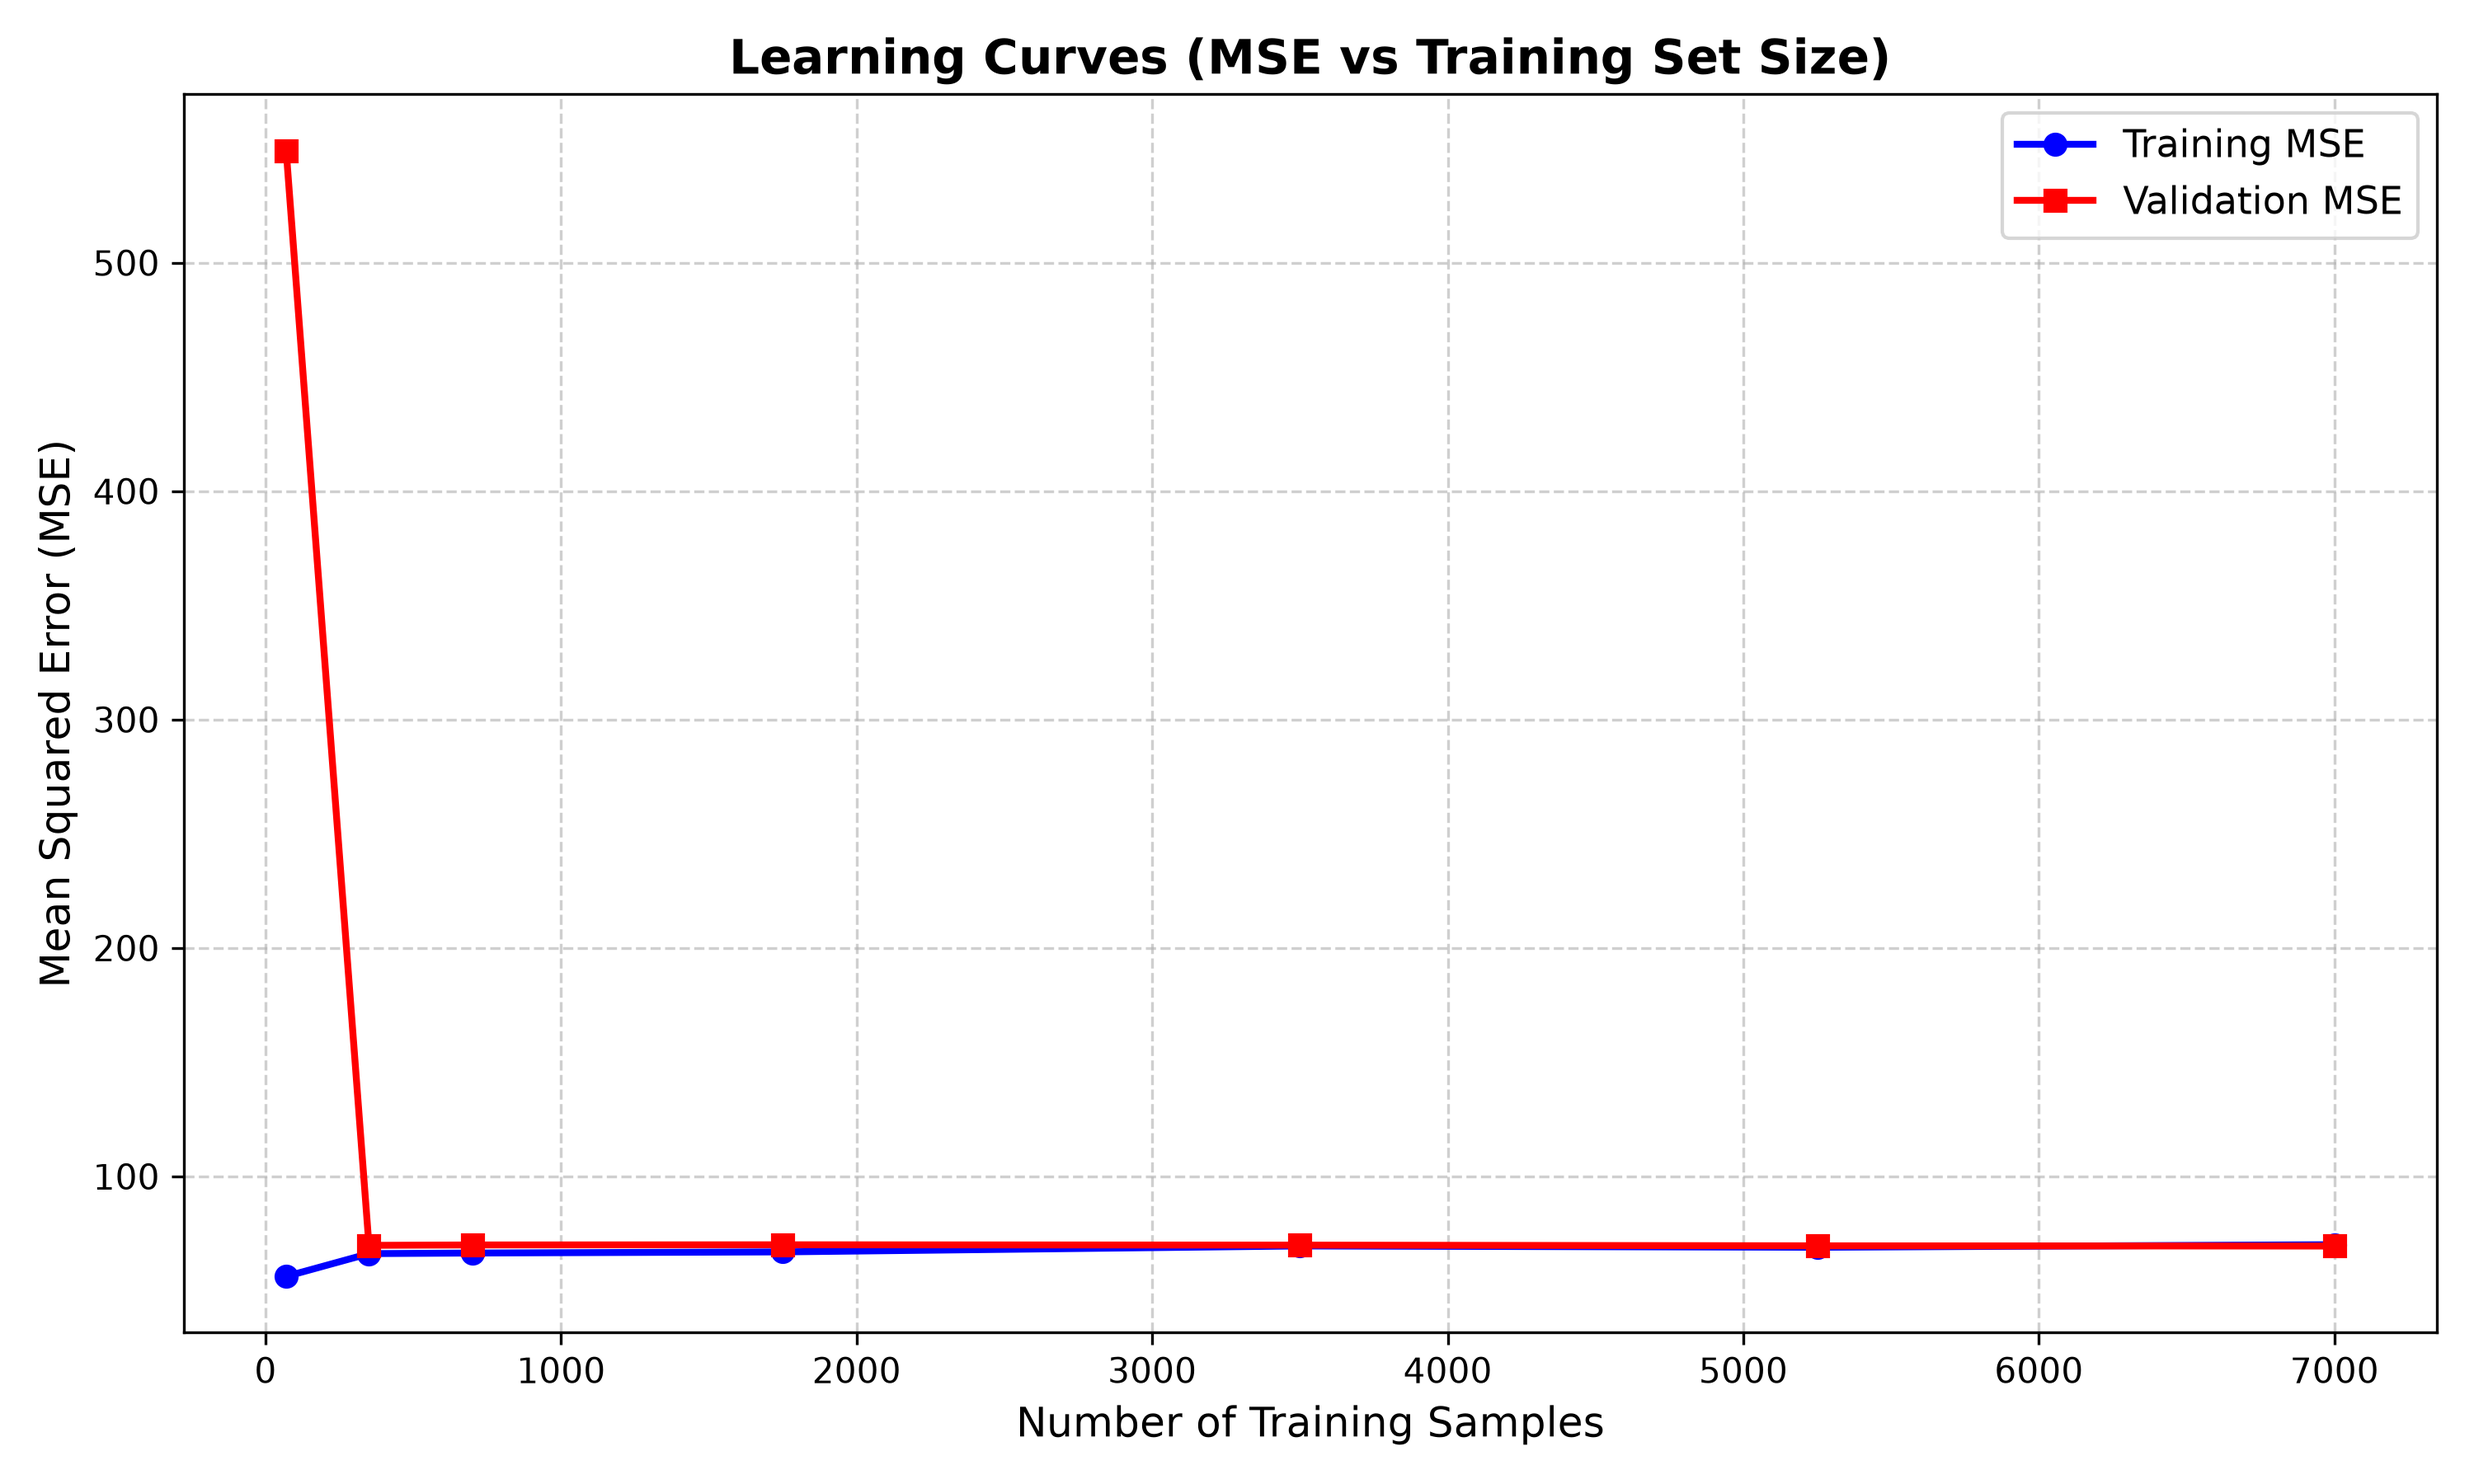
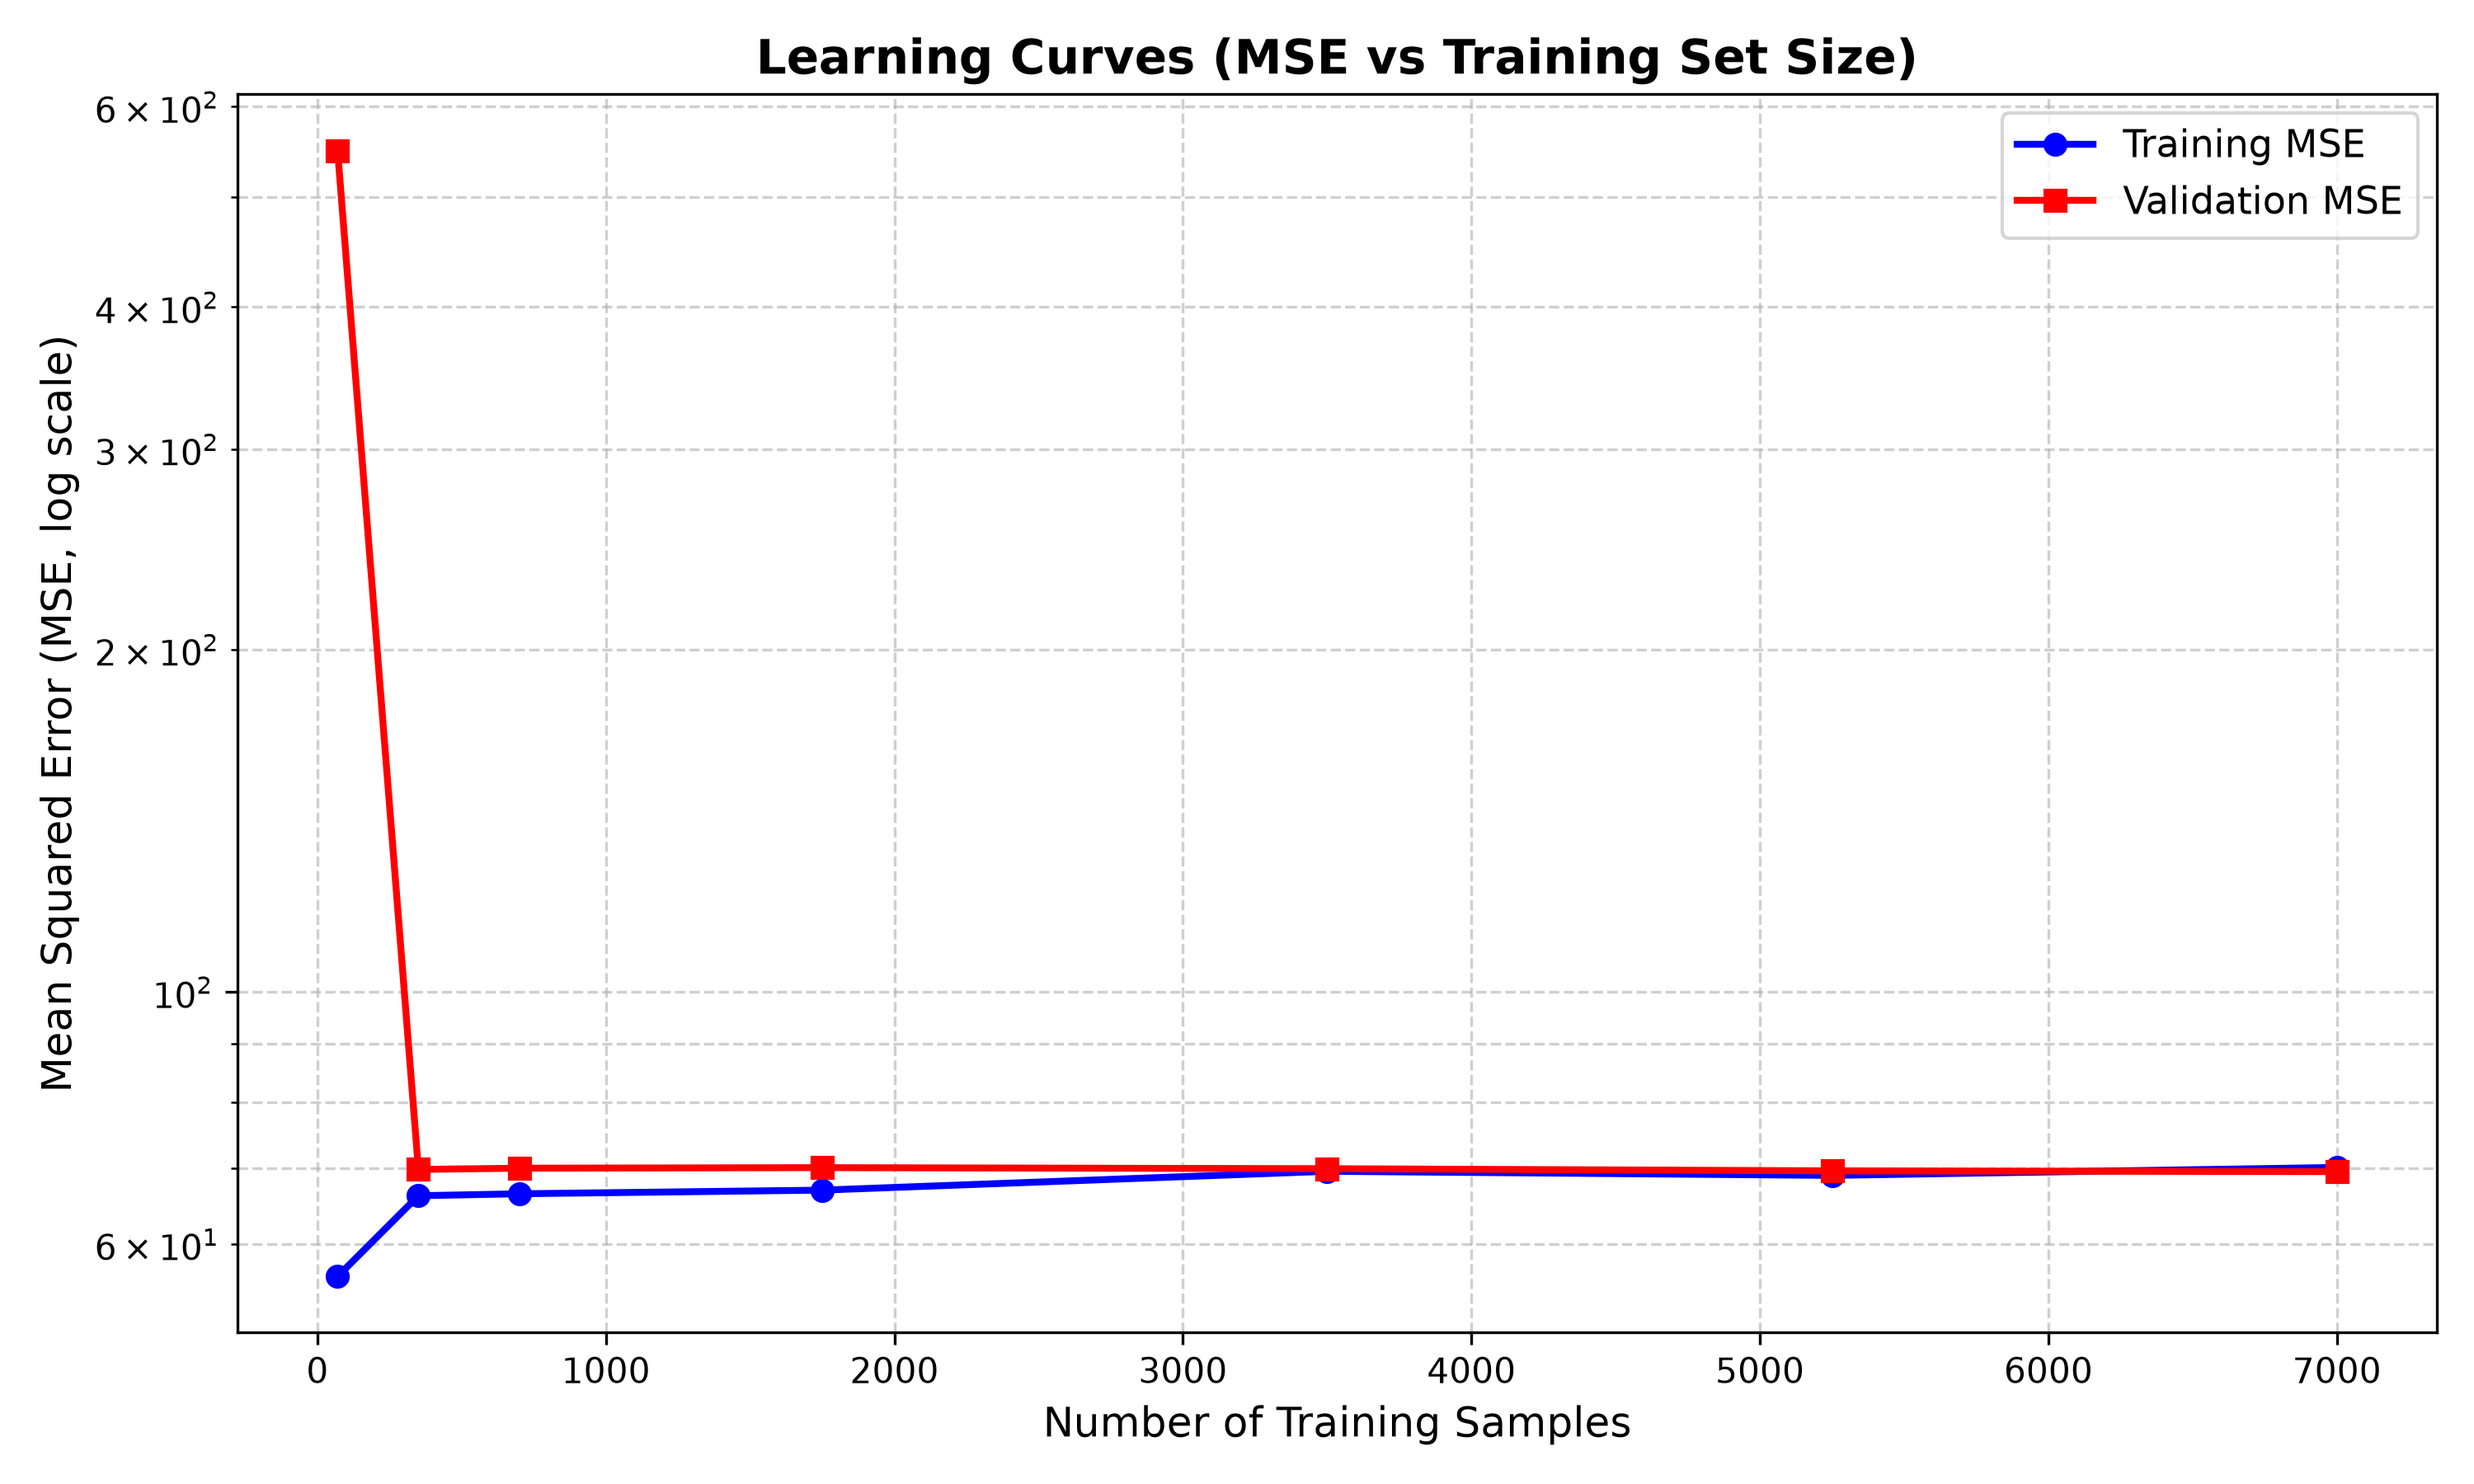
log scale learning curve and closed form formula

diff --git a/lab3/main.py b/lab3/main.py
@@ -1,19 +1,9 @@
-import os
-import sys
 import math
-
-SCRIPT_DIR=os.path.dirname(os.path.abspath(__file__))
-if SCRIPT_DIR not in sys.path:
-    sys.path.insert(0,SCRIPT_DIR)
 
 from src.preprocessing import train_val_test_split
 from src.regression import PolynomialRegression, RidgePolynomialRegression
 from src.metrics import mean_squared_error,root_mean_squared_error,mean_absolute_error,r2_score
 from src.visualization import (plot_fitted_curves,plot_degree_vs_error,plot_regularization_comparison,plot_residuals,plot_learning_curve)
-
-INPUT_DIR=os.path.join(SCRIPT_DIR,"input")
-OUTPUT_DIR=os.path.join(SCRIPT_DIR,"output")
-os.makedirs(OUTPUT_DIR,exist_ok=True)
 
 def load_data(filename):
     x = []
@@ -38,7 +28,7 @@ def print_separator(title):
 def main():
     print_separator("POLYNOMIAL REGRESSION & MODEL SELECTION")   
     #load dataset
-    data_path=os.path.join(INPUT_DIR,"noisy_3.txt")
+    data_path="input/noisy_3.txt"
     print(f"Loading dataset from: {data_path}")
     x_all,y_all=load_data(data_path)
     N=len(x_all)
@@ -105,20 +95,20 @@ def main():
     #fitted curves plot for degrees 1,2,3,5,8
     key_degrees = [d for d in [1,2,3,5,8] if d in models]
     plot_models = {f"Degree {d}": models[d] for d in key_degrees}
-    fitted_plot_path = os.path.join(OUTPUT_DIR,"fitted_polynomial_curves.png")
+    fitted_plot_path = "output/fitted_polynomial_curves.png"
     plot_fitted_curves(x_all, y_all,plot_models,fitted_plot_path,title="Polynomial Regression Fits on Noisy Observations")
     print(f"[Saved] {fitted_plot_path}")
 
     #degree vs error curve
     train_mses=[r["train_mse"] for r in results]
     val_mses=[r["val_mse"] for r in results]
-    err_plot_path=os.path.join(OUTPUT_DIR, "degree_vs_error.png")
+    err_plot_path = "output/degree_vs_error.png"
     plot_degree_vs_error(degrees,train_mses,val_mses,err_plot_path)
     print(f"[Saved] {err_plot_path}")
 
     #residual distribution plot
     test_preds=best_model.predict(x_test)
-    res_plot_path=os.path.join(OUTPUT_DIR,"residual_distribution.png")
+    res_plot_path = "output/residual_distribution.png"
     plot_residuals(y_test,test_preds,res_plot_path)
     print(f"[Saved] {res_plot_path}")
 
@@ -139,7 +129,7 @@ def main():
         label=f"Ridge (alpha={a})"
         ridge_models[label]=ridge
         print(f"{label:<25} | {r_val_mse:<10.4f} | {r_test_mse:<10.4f}")
-    ridge_plot_path=os.path.join(OUTPUT_DIR,"regularization_comparison.png")
+    ridge_plot_path = "output/regularization_comparison.png"
     plot_regularization_comparison(x_all,y_all,unreg_model,ridge_models,ridge_plot_path)
     print(f"[Saved] {ridge_plot_path}")
 
@@ -179,7 +169,7 @@ def main():
         lc_sizes.append(sub_size)
         lc_train_mses.append(tr_err)
         lc_val_mses.append(v_err)
-    lc_plot_path=os.path.join(OUTPUT_DIR,"learning_curves.png")
+    lc_plot_path = "output/learning_curves.png"
     plot_learning_curve(lc_sizes,lc_train_mses,lc_val_mses,lc_plot_path)
     print(f"[Saved] {lc_plot_path}")
 

diff --git a/lab3/src/regression.py b/lab3/src/regression.py
@@ -1,10 +1,4 @@
-import os
-import sys
-
-SCRIPT_DIR = os.path.dirname(os.path.dirname(os.path.abspath(__file__)))
-if SCRIPT_DIR not in sys.path:
-    sys.path.insert(0, SCRIPT_DIR)
-from src.linear_algebra import transpose,matmul,matvec,solve_linear_system,identity
+import numpy as np
 from src.preprocessing import StandardScaler,create_polynomial_features
 
 class PolynomialRegression:
@@ -22,17 +16,13 @@ class PolynomialRegression:
             x_proc=x
 
         #construct Vandermonde design matrix X (N x (degree + 1))
-        X=create_polynomial_features(x_proc, self.degree)
+        X=np.array(create_polynomial_features(x_proc, self.degree))
+        y=np.array(y)
 
-        #compute X^T
-        X_T=transpose(X)
-
-        #compute X^T * X and X^T * y
-        XTX=matmul(X_T, X)
-        XTy=matvec(X_T, y)
-
-        #solve (X^T X) * theta = X^T y
-        self.theta=solve_linear_system(XTX,XTy)
+        #closed-form Normal Equations: theta = (X^T X)^-1 X^T y
+        XTX=X.T @ X
+        XTy=X.T @ y
+        self.theta=np.linalg.inv(XTX) @ XTy
         return self
 
     def predict(self,x):
@@ -42,8 +32,8 @@ class PolynomialRegression:
             x_proc=self.scaler.transform(x)
         else:
             x_proc=x
-        X=create_polynomial_features(x_proc,self.degree)
-        return matvec(X,self.theta)
+        X=np.array(create_polynomial_features(x_proc,self.degree))
+        return (X @ self.theta).tolist()
 
 
 class RidgePolynomialRegression:
@@ -60,17 +50,18 @@ class RidgePolynomialRegression:
         else:
             x_proc=x
 
-        X =create_polynomial_features(x_proc,self.degree)
-        X_T =transpose(X)
-        XTX =matmul(X_T,X)
-        XTy =matvec(X_T,y)
+        X =np.array(create_polynomial_features(x_proc,self.degree))
+        y =np.array(y)
+        XTX =X.T @ X
+        XTy =X.T @ y
 
         k = self.degree + 1
-        # Add regularization penalty alpha * I' to XTX
-        # Do not penalize w_0 (bias term)
-        for i in range(1, k):
-            XTX[i][i] += self.alpha
-        self.theta = solve_linear_system(XTX, XTy)
+        # Regularization matrix: alpha * I', with 0 for intercept w_0
+        alpha_matrix = self.alpha * np.eye(k)
+        alpha_matrix[0, 0] = 0.0
+
+        # Closed-form Ridge formula: theta = (X^T X + alpha * I')^-1 X^T y
+        self.theta = np.linalg.inv(XTX + alpha_matrix) @ XTy
         return self
 
     def predict(self,x):
@@ -82,8 +73,8 @@ class RidgePolynomialRegression:
         else:
             x_proc=x
 
-        X=create_polynomial_features(x_proc,self.degree)
-        return matvec(X,self.theta)
+        X=np.array(create_polynomial_features(x_proc,self.degree))
+        return (X @ self.theta).tolist()
 
 
 if __name__ == "__main__":

diff --git a/lab3/src/visualization.py b/lab3/src/visualization.py
@@ -1,4 +1,3 @@
-import os
 import matplotlib.pyplot as plt
 
 def plot_fitted_curves(x_data,y_data,models_dict,output_path,title="Polynomial Regression Fits"):
@@ -98,10 +97,11 @@ def plot_learning_curve(train_sizes,train_mses,val_mses,output_path):
     plt.figure(figsize=(10,6))
     plt.plot(train_sizes,train_mses,marker="o",color="blue",label="Training MSE",linewidth=2)
     plt.plot(train_sizes,val_mses,marker="s",color="red",label="Validation MSE",linewidth=2) 
+    plt.yscale("log")
     plt.title("Learning Curves (MSE vs Training Set Size)",fontsize=14,fontweight="bold")
     plt.xlabel("Number of Training Samples",fontsize=12)
-    plt.ylabel("Mean Squared Error (MSE)",fontsize=12)
-    plt.grid(True, linestyle="--",alpha=0.6)
+    plt.ylabel("Mean Squared Error (MSE, log scale)",fontsize=12)
+    plt.grid(True, which="both", linestyle="--",alpha=0.6)
     plt.legend(loc="best",fontsize=11)
     plt.tight_layout()
     plt.savefig(output_path,dpi=300)
